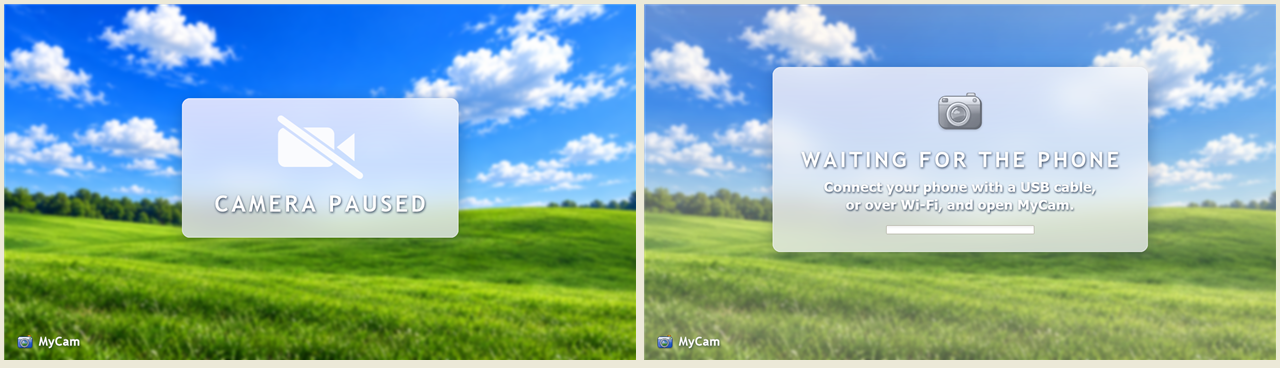
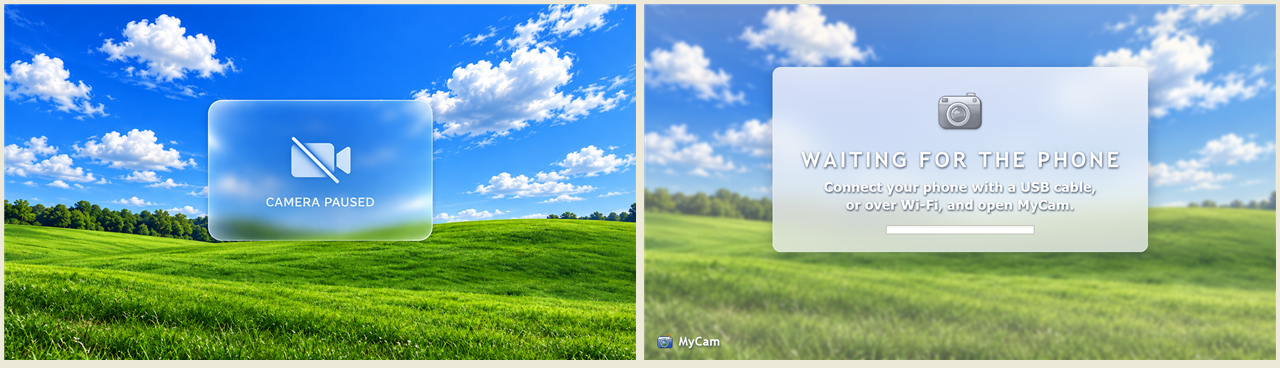
Art: the paused camera picture is the supplied image, not a recreation
design/assets/source/camera-paused-reference.png is the paused screen (owner
decision, 2026-10-11). make_status_frames.ps1 no longer recomposes it from the
hills photo with a drawn card and title: it crops that file from its 3:2 shape
to the frame's 16:9 and scales it to 1280x720, and adds no wordmark over it.
The crop is centred, which keeps the glass card where it was drawn.

That folder's README records both source images as the owner's own and free to
ship, so CLAUDE.md's "the reference photo is never copied or shipped" needed
amending; the waiting picture and the phone backgrounds are still composited.

diff --git a/CLAUDE.md b/CLAUDE.md
@@ -126,7 +126,10 @@ and components are in [design/STYLE.md](design/STYLE.md).
   and are never shipped.
 - **Art:** `design/tools/*.ps1` (shared library `luna_draw.ps1`). Regenerate with them rather than hand-editing
   PNGs.
-  - The hills scene is original and procedural. The reference photo in `inspo/` is never copied or shipped.
+  - The hills scene is original and procedural, composited from `design/assets/source/hills-photo.png`.
+    Both source images there are the owner's own (see that folder's README), so they may be shipped;
+    nothing from `inspo/` is ever read by a script. Since 2026-10-11 the **paused** camera picture is the
+    exception to "procedural": it is `camera-paused-reference.png` itself, cropped to 16:9 (owner decision).
   - The track of the waiting picture's marquee is at `design/tools/frame_layout.txt` and must match
     `pc/companion/marquee.h`.
 
